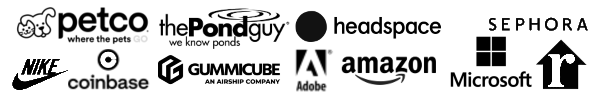
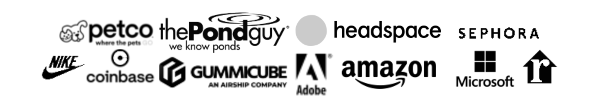
stuff is prettier

diff --git a/about.html b/about.html
@@ -95,6 +95,9 @@
 			padding: 1%; 
 			overflow: hidden;
 			}
+		footer img {
+			max-width: 100vw;
+			}
 		footer a {
 			color: lightsteelblue;
 			}

diff --git a/contact.html b/contact.html
@@ -93,6 +93,9 @@
 			padding: 1%; 
 			overflow: hidden;
 			}
+		footer img {
+			max-width: 100vw;
+			}
 		footer a {
 			color: lightsteelblue;
 			}

diff --git a/index.html b/index.html
@@ -94,6 +94,9 @@
 			padding: 1%; 
 			overflow: hidden;
 			}
+		footer img {
+			max-width: 100vw;
+			}
 		footer a {
 			color: lightsteelblue;
 			}

diff --git a/portfolio.html b/portfolio.html
@@ -90,6 +90,9 @@
 			padding: 1%; 
 			overflow: hidden;
 			}
+		footer img {
+			max-width: 100vw;
+			}
 		footer a {
 			color: lightsteelblue;
 			}
